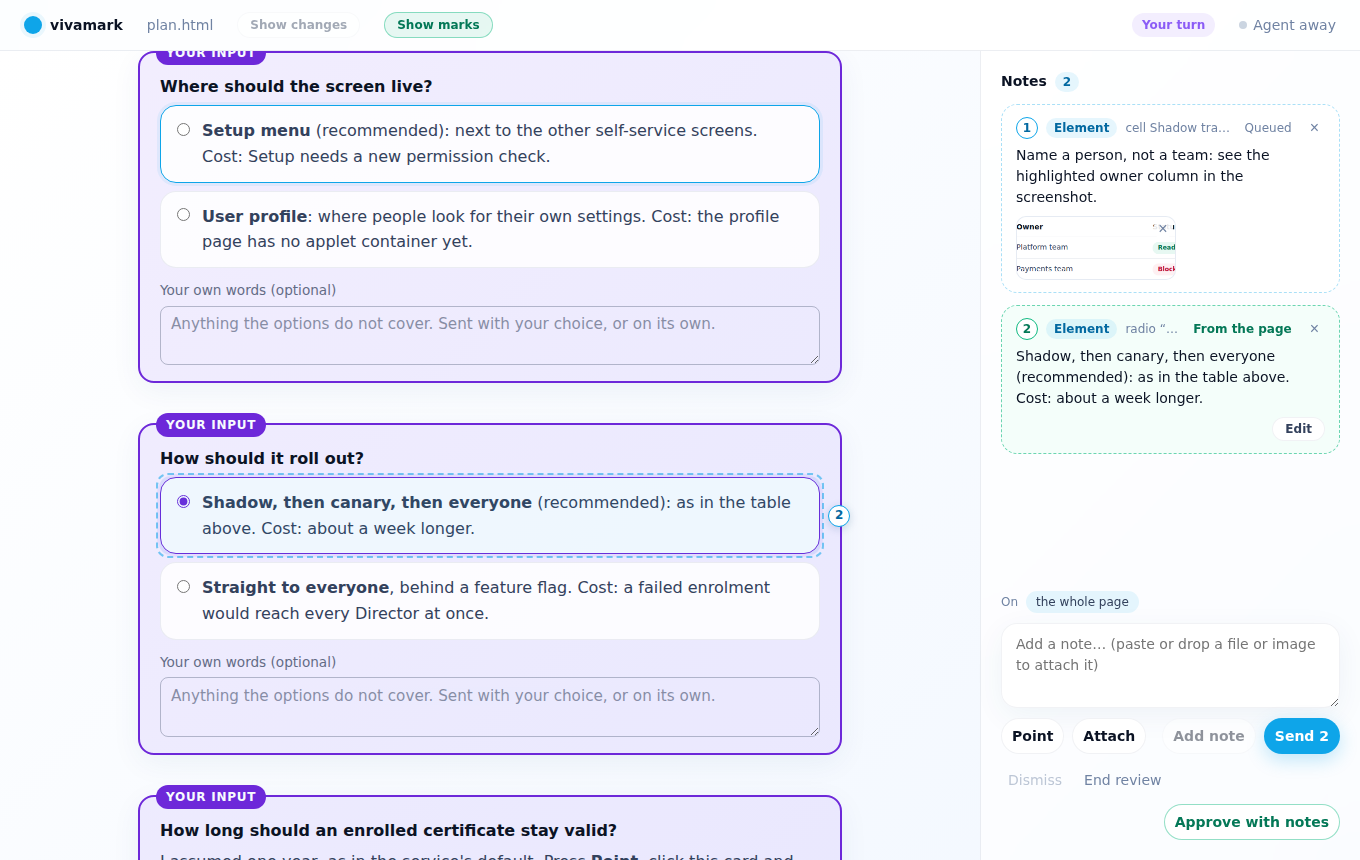
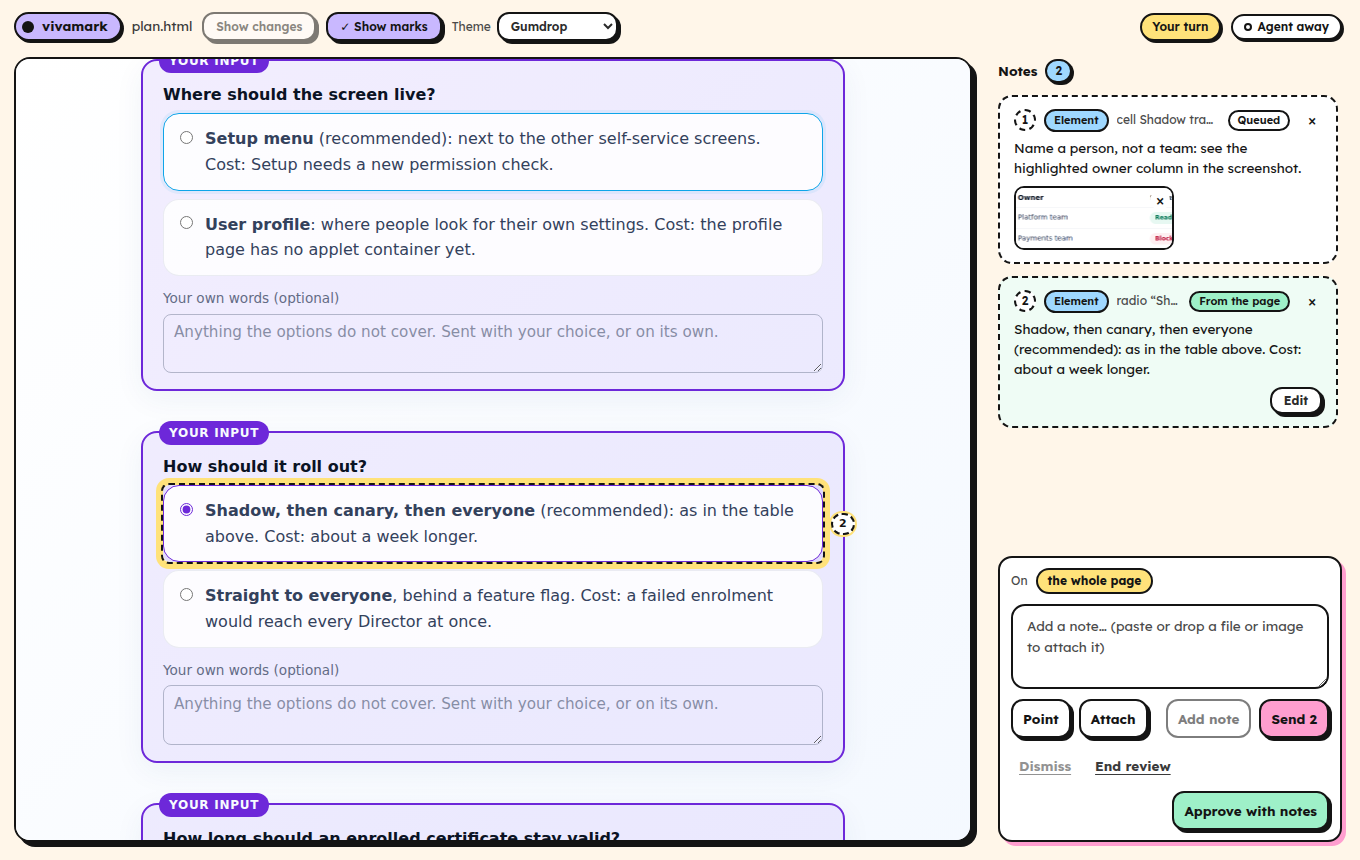
docs: themes in DECISIONS, README and the guide; README screenshots in Gumdrop
DECISIONS.md records the nine themes, Gumdrop as default, the bundled
fonts, the floor every theme keeps and the marks from tokens, superseding
Smooth glass as the only look. The README says how to switch and how to
set the default; the guide's workflow topic tells agents the review page
has themes and that their pages need not suit one.

diff --git a/src/guide.ts b/src/guide.ts
@@ -214,11 +214,22 @@ Pointing things out yourself
   vivamark note add <file> --target '#risk-rollback' --text "I guessed this number."
   The reviewer sees it labelled as yours. It reaches wait only if the reviewer
   endorses it or replies to it. Use it for guesses and things you are unsure of.
+
+Themes of the review page
+  The review page around your page has themes the reviewer switches with
+  Theme in its bar: Gumdrop (the default), Raster, Raw, Pinboard, Signal,
+  Sticker, Riso, Bauhaus and Smooth glass. Their default is set with
+  VIVAMARK_THEME or "theme" in ~/.config/vivamark/config.json, read when the
+  server starts. A theme changes only how the review page and the marks on
+  your page look, never your page's own styles or what wait returns. Do not
+  style your page to suit one.
 `;
 
 const DESIGN = `design: the Smooth glass look
 
 White, a faint sky tint, frosted panels, rounded pills, one sky-blue accent.
+This is the look of the page you write; the review page around it has its
+own themes, which the reviewer chooses (see: vivamark guide workflow).
 Paste the CSS below into a <style> element in the page's <head>, and wrap the
 content in <main>. It defines tokens (colour, type, spacing) for light and
 dark, and an explicit page background.

diff --git a/docs/DECISIONS.md b/docs/DECISIONS.md
@@ -232,3 +232,27 @@ connection to close, one the loopback relay had dropped, so it never closed.
 | Unchanged | The idle timeout, the port, `server.json`, the CLI and the wire format. | |
 
 This extends "One server per state directory" (2026-10-05).
+
+## 2026-11-14: Themes for the review page, Gumdrop by default
+
+Asked: "can you build the following themes so that I can switch whenever I
+feel like in vivamark? raster, raw, pinboard, signal, sticker, riso, bauhaus,
+gumdrop." Answers to the follow-up questions: full themes now, each with its
+own layout and interaction as designed; bundle the fonts; Gumdrop is the
+default. The looks come from the design study's second round.
+
+| Topic | Decision | Why |
+|---|---|---|
+| Which themes | Nine: Gumdrop, Raster, Raw, Pinboard, Signal, Sticker, Riso, Bauhaus, and Smooth glass, the one look until now, kept as a choice. Three change the layout as well as the look: Raster lays the notes out as a numbered index on a 7/5 grid, Sticker as a chat thread with a face for the agent, and Pinboard shows the page whole as a sheet on a zoomable table with the notes pinned beside it (narrower than 861 px, it stacks). | The Boss wants to switch as they like; each theme is what its mock and notes showed, not only its colours. |
+| Switching | A Theme picker in the bar. The theme applies at once, with no reload: the draft, the queue, the page and its scroll position stay. The browser remembers the choice (`localStorage`). | A look is a viewing preference, like Show marks. |
+| The default | Gumdrop. `VIVAMARK_THEME`, or `"theme"` in the config file, sets another, read when the server starts; an unknown name is reported and ignored. A choice made in a browser wins over it. No new CLI flag. | The same place as every other setting of the server; the CLI contract is unchanged. |
+| Presentation only | No theme changes the notes, the log, `wait` or any JSON an agent reads, or what reaches the agent. Every theme has every control. | Themes are how the review looks, not what it does. |
+| The floor | Every theme keeps Signal's rules: a visible focus ring, text at 4.5:1 or better (3:1 for large text), every state in words or a shape as well as colour, real labels on buttons, no motion with `prefers-reduced-motion`. A browser test checks each theme at desktop and phone width. Smooth glass's grey, purple and send blue are darkened to pass. | Recommended by both rounds of the study; a look must not cost a reader the page. |
+| Marks in the page | The marks the page script draws (targets, pins, highlights, change marks, the outline while pointing) take every colour and shape from the theme's `--mk-*` tokens, sent to the page with each switch. The page script has no colours of its own beyond plain ink before the first. Bauhaus's pins take the note's state as a shape; Signal's say "Note 3". | The marks were hard-coded sky blue and yellow; a theme that left them so would not be whole. |
+| Fonts | Each theme's typeface ships in the package as a Latin WOFF2 file (SIL Open Font Licence 1.1, licence beside it, listed in THIRD-PARTY-NOTICES.md) and is served by the daemon from `/_vivamark/fonts/`. About 300 KB in all; a face loads only when its theme is used. | "Bundle the fonts", and non-negotiable 2: the review page fetches nothing from anywhere else, which a test checks. |
+| Pinboard and the page | While Pinboard's canvas is on, the page script reports the page's height and where each noted place is, in page pixels, and passes the wheel to the table. Positions only. The sheet keeps its place in the document (moving the frame would reload the page). | The canvas cannot read the page, which runs in a sandboxed frame of its own origin. |
+
+This supersedes the "Look" row of the founding decisions (2026-10-04):
+Smooth glass is no longer the only look of the review page, and no longer
+the default. The guide's `design` topic, the look for pages agents write,
+is unchanged.

diff --git a/README.md b/README.md
@@ -136,6 +136,39 @@ The rules, close to those of `xdg-open` and Python's `webbrowser`:
   tried, and after the last the system's default. A browser that starts and
   then fails is not noticed. The URL is printed either way.
 
+### Choosing the theme
+
+The review page has nine themes. Switch with **Theme** in the bar, at any
+time: the change applies at once, with no reload, and your draft and queued
+notes stay. This browser remembers the choice.
+
+| Theme | What it is |
+|---|---|
+| **Gumdrop** (default) | Black outlines, candy fills, hard shadows; controls press flat |
+| **Raster** | A Swiss grid: the notes as a numbered index, one red |
+| **Raw** | Brutalist: thick borders, hard shadows, a yellow bar |
+| **Pinboard** | The page whole, as a sheet on a table, notes pinned beside it with threads. Scroll to pan, Ctrl or ⌘ with the wheel to zoom, **Fit** for reading width; notes off screen show as pills; a minimap. Stacks on a narrow window |
+| **Signal** | Big type and controls, every state in a word and a symbol |
+| **Sticker** | A chat with the agent: your notes as bubbles, its answers with stickers, a face that shows it is listening |
+| **Riso** | Two inks: pink is you, blue is the agent, purple overprint when a note is addressed |
+| **Bauhaus** | A shape for each state, on the note and its pin: circle addressed, triangle asks you, square yours |
+| **Smooth glass** | The look vivamark had before themes |
+
+The marks drawn on the agent's page follow the theme. Every theme keeps
+the same controls, a visible focus ring, text at 4.5:1 contrast or better,
+and no motion when your system asks for less. Their fonts ship with
+vivamark and are served by the local server; nothing is fetched.
+
+To set the theme a browser starts in, before anyone picks one there:
+
+```sh
+export VIVAMARK_THEME=raster
+```
+
+or `"theme": "raster"` in `~/.config/vivamark/config.json`. It is read when
+the server starts, so run `vivamark stop` after changing it. A choice made in
+the browser wins over it.
+
 ![The review page: sent notes, an approval, and Show changes](docs/screenshots/review-ui.png)
 
 ## Writing a page worth reviewing
